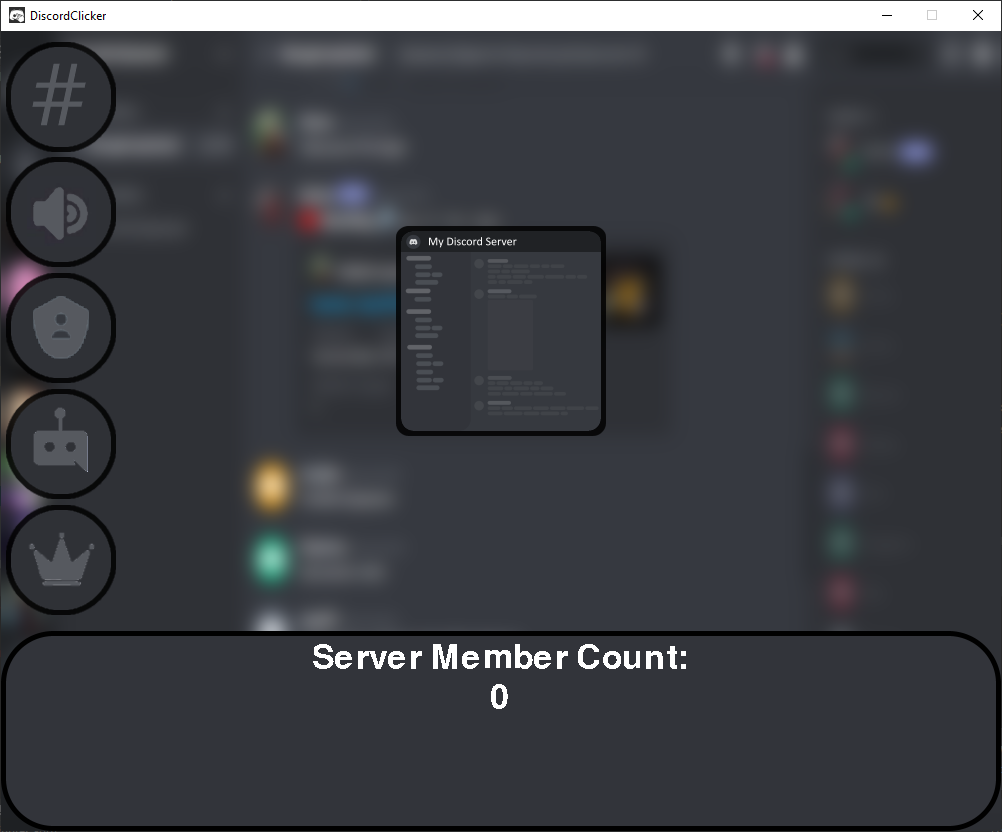
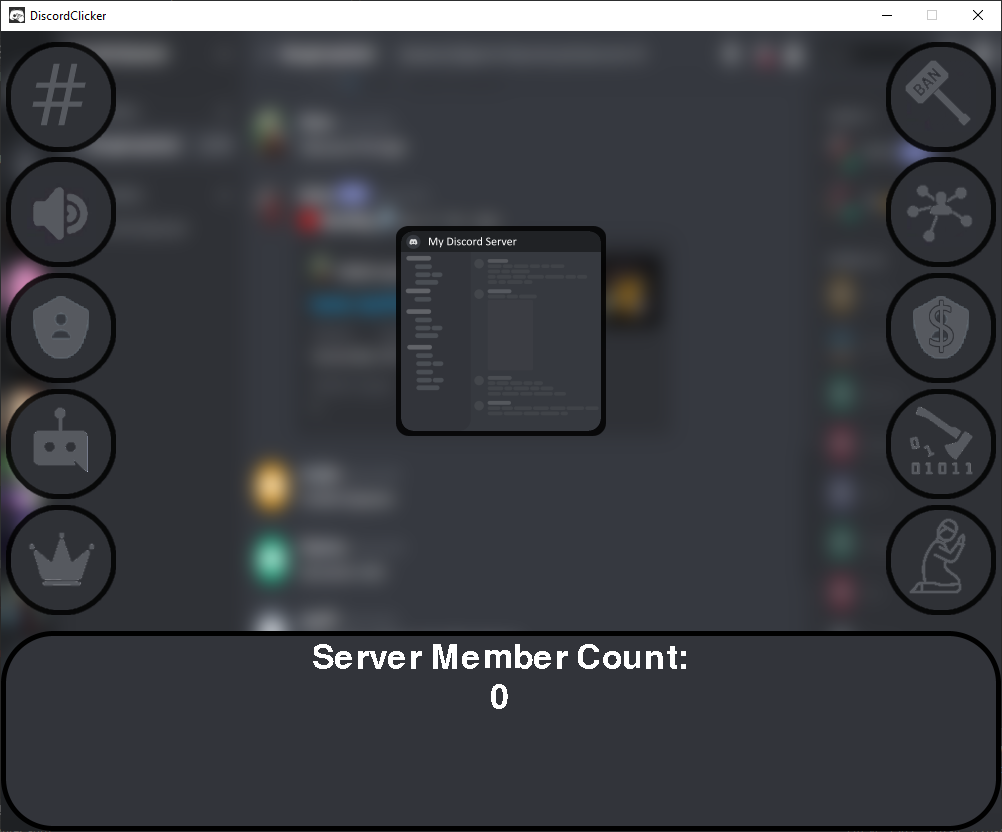
Added the other 5 out of the 10 upgrade buttons

Changed region(s): [[0.8663, 0.0312, 1.0, 0.75], [0.99, 0.6562, 1.0, 0.6875]]

diff --git a/main.py b/main.py
@@ -30,6 +30,11 @@ TIER_TWO = pygame.image.load(os.path.join('assets', 'tier_2.png')).convert_alpha
 TIER_THREE = pygame.image.load(os.path.join('assets', 'tier_3.png')).convert_alpha()
 TIER_FOUR = pygame.image.load(os.path.join('assets', 'tier_4.png')).convert_alpha()
 TIER_FIVE = pygame.image.load(os.path.join('assets', 'tier_5.png')).convert_alpha()
+TIER_SIX = pygame.image.load(os.path.join('assets', 'tier_6.png')).convert_alpha()
+TIER_SEVEN = pygame.image.load(os.path.join('assets', 'tier_7.png')).convert_alpha()
+TIER_EIGHT = pygame.image.load(os.path.join('assets', 'tier_8.png')).convert_alpha()
+TIER_NINE = pygame.image.load(os.path.join('assets', 'tier_9.png')).convert_alpha()
+TIER_TEN = pygame.image.load(os.path.join('assets', 'tier_10.png')).convert_alpha()
 TIER_SHADOW = pygame.image.load(os.path.join('assets', 'tier_shadow.png')).convert_alpha()
 TIER_NOT_SHADOW = pygame.image.load(os.path.join('assets', 'tier_not_shadow.png')).convert_alpha()
 
@@ -46,6 +51,11 @@ TIER_TWO_BUTTON = b.Button(TIER_IMAGE_SIZE, (10, 131), TIER_TWO, TIER_SHADOW, TI
 TIER_THREE_BUTTON = b.Button(TIER_IMAGE_SIZE, (10, 247), TIER_THREE, TIER_SHADOW, TIER_NOT_SHADOW)
 TIER_FOUR_BUTTON = b.Button(TIER_IMAGE_SIZE, (10, 363), TIER_FOUR, TIER_SHADOW, TIER_NOT_SHADOW)
 TIER_FIVE_BUTTON = b.Button(TIER_IMAGE_SIZE, (10, 479), TIER_FIVE, TIER_SHADOW, TIER_NOT_SHADOW)
+TIER_SIX_BUTTON = b.Button(TIER_IMAGE_SIZE, (890, 16), TIER_SIX, TIER_SHADOW, TIER_NOT_SHADOW)
+TIER_SEVEN_BUTTON = b.Button(TIER_IMAGE_SIZE, (890, 131), TIER_SEVEN, TIER_SHADOW, TIER_NOT_SHADOW)
+TIER_EIGHT_BUTTON = b.Button(TIER_IMAGE_SIZE, (890, 247), TIER_EIGHT, TIER_SHADOW, TIER_NOT_SHADOW)
+TIER_NINE_BUTTON = b.Button(TIER_IMAGE_SIZE, (890, 363), TIER_NINE, TIER_SHADOW, TIER_NOT_SHADOW)
+TIER_TEN_BUTTON = b.Button(TIER_IMAGE_SIZE, (890, 479), TIER_TEN, TIER_SHADOW, TIER_NOT_SHADOW)
 
 buttonlist.append(CLICKER_BUTTON)
 buttonlist.append(TIER_ONE_BUTTON)
@@ -53,6 +63,11 @@ buttonlist.append(TIER_TWO_BUTTON)
 buttonlist.append(TIER_THREE_BUTTON)
 buttonlist.append(TIER_FOUR_BUTTON)
 buttonlist.append(TIER_FIVE_BUTTON)
+buttonlist.append(TIER_SIX_BUTTON)
+buttonlist.append(TIER_SEVEN_BUTTON)
+buttonlist.append(TIER_EIGHT_BUTTON)
+buttonlist.append(TIER_NINE_BUTTON)
+buttonlist.append(TIER_TEN_BUTTON)
 
 
 def window_draw(buttonlist, members_text):
@@ -81,6 +96,27 @@ def main(members):
                 if CLICKER_BUTTON.is_over(pos):
                     members += 1
                     print(members)
+                if TIER_ONE_BUTTON.is_over(pos):
+                    print("Add a text channel")
+                if TIER_TWO_BUTTON.is_over(pos):
+                    print("Add a voice channel")
+                if TIER_THREE_BUTTON.is_over(pos):
+                    print("Add a role")
+                if TIER_FOUR_BUTTON.is_over(pos):
+                    print("Add a bot")
+                if TIER_FIVE_BUTTON.is_over(pos):
+                    print("Heir an admin")
+                if TIER_SIX_BUTTON.is_over(pos):
+                    print("Ban a trouble maker")
+                if TIER_SEVEN_BUTTON.is_over(pos):
+                    print("Get mentioned by an Influencer")
+                if TIER_EIGHT_BUTTON.is_over(pos):
+                    print("Add a pay to win role")
+                if TIER_NINE_BUTTON.is_over(pos):
+                    print("Hack discord for members")
+                if TIER_TEN_BUTTON.is_over(pos):
+                    print("Get god to bless server")
+
 
         for button in buttonlist:
             if button.is_over(pos):
